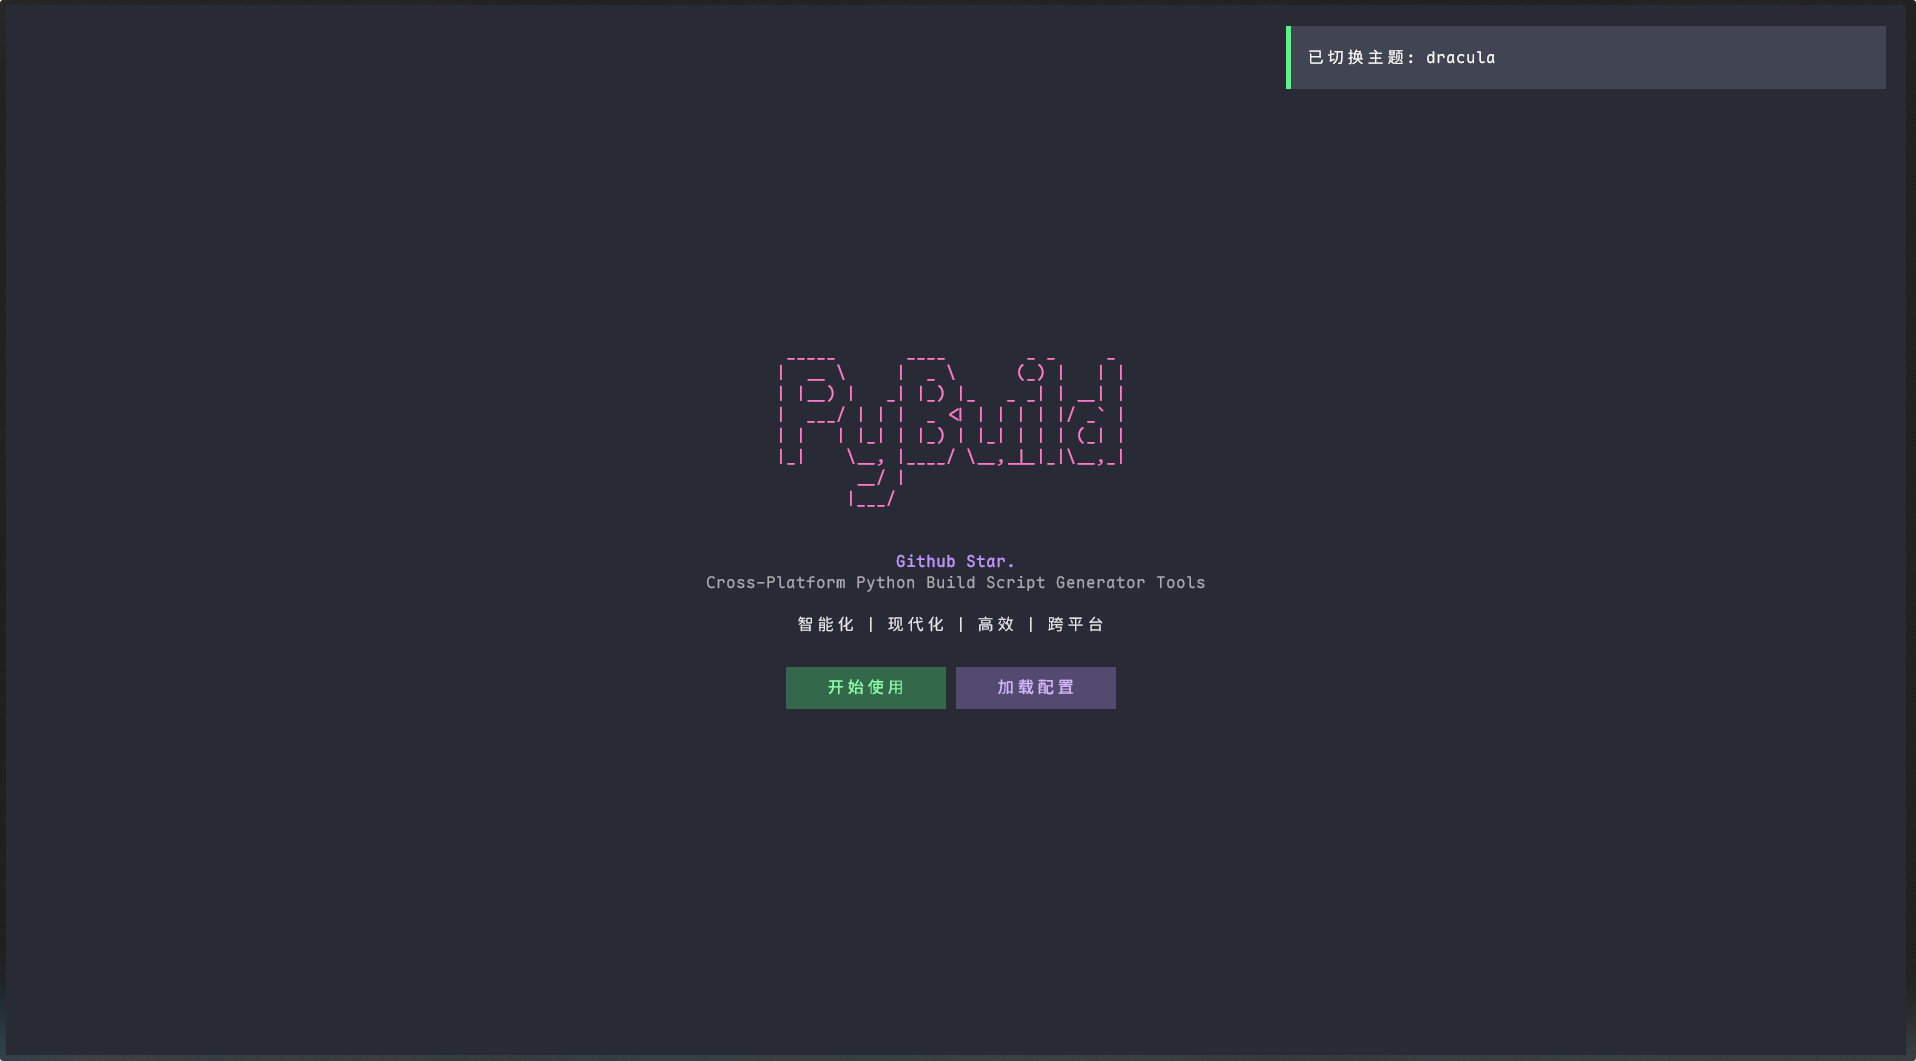
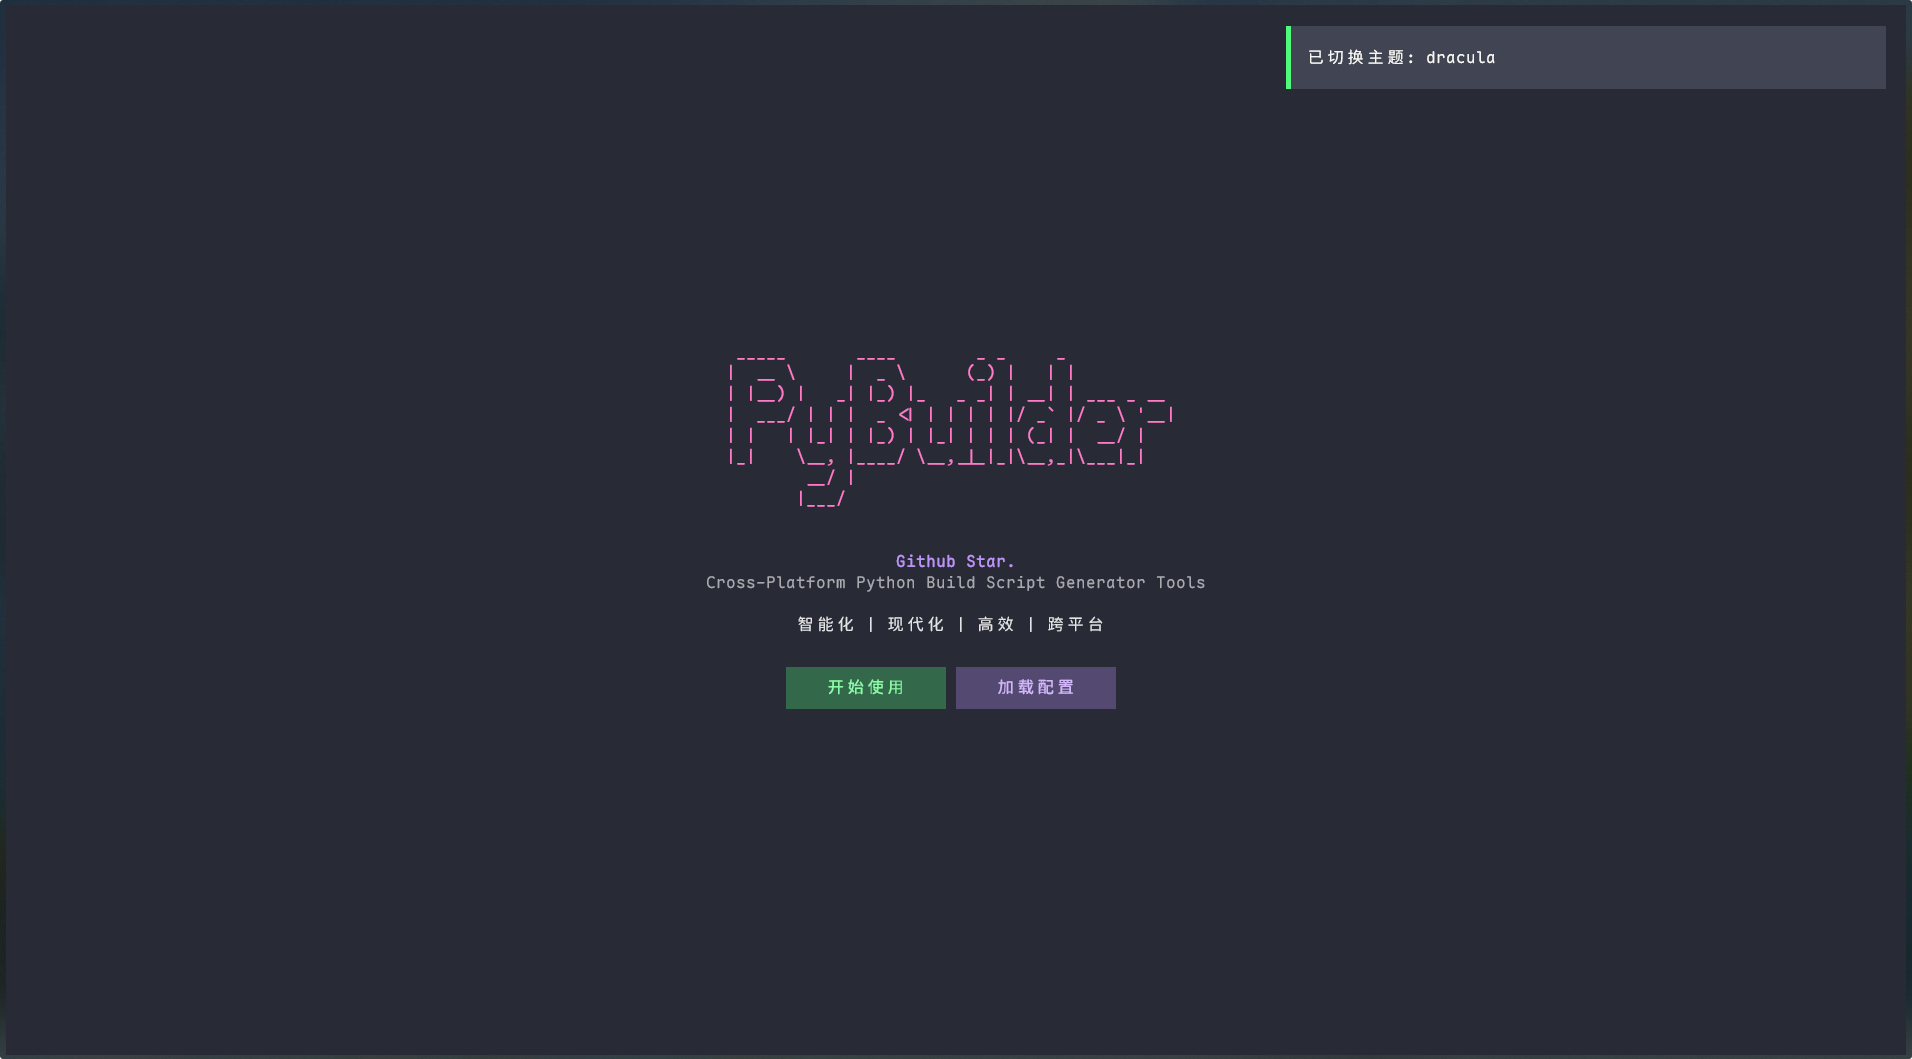
chore:PyBuilder

diff --git a/src/screens/welcome_screen.py b/src/screens/welcome_screen.py
@@ -9,7 +9,7 @@ from textual.containers import Container, Vertical, Horizontal
 from textual.widgets import Static, Button, Link
 
 
-def generate_logo(text="PYBUILD", font="big"):
+def generate_logo(text="PyBuilder", font="big"):
     """使用 pyfiglet 生成 ASCII Logo"""
     try:
         return pyfiglet.figlet_format(text, font=font)
@@ -106,12 +106,14 @@ class WelcomeScreen(Screen):
     def compose(self) -> ComposeResult:
         """创建欢迎界面组件"""
         # 运行时生成 LOGO，避免模块导入阶段错误
-        logo = generate_logo("PyBuild", "big")
+        logo = generate_logo("PyBuilder", "big")
 
         with Container(id="welcome-container"):
             yield Static(logo, id="logo")
             with Container(id="title"):
-                yield Link("Github Star.", url="https://github.com/Y-ASLant/PyBuild-Generate")
+                yield Link(
+                    "Github Star.", url="https://github.com/Y-ASLant/PyBuild-Generate"
+                )
             yield Static(
                 "Cross-Platform Python Build Script Generator Tools", id="subtitle"
             )

diff --git a/src/__main__.py b/src/__main__.py
@@ -11,7 +11,7 @@ from src.utils import resize_terminal, load_config
 
 def show_version():
     """显示版本和作者信息"""
-    print(f"PyBuild-Generate_v{__version__}")
+    print(f"PyBuilder-Generate_v{__version__}")
     print(f"作者: {__author__}")
     print(f"GitHub: {__repo__}")
 
